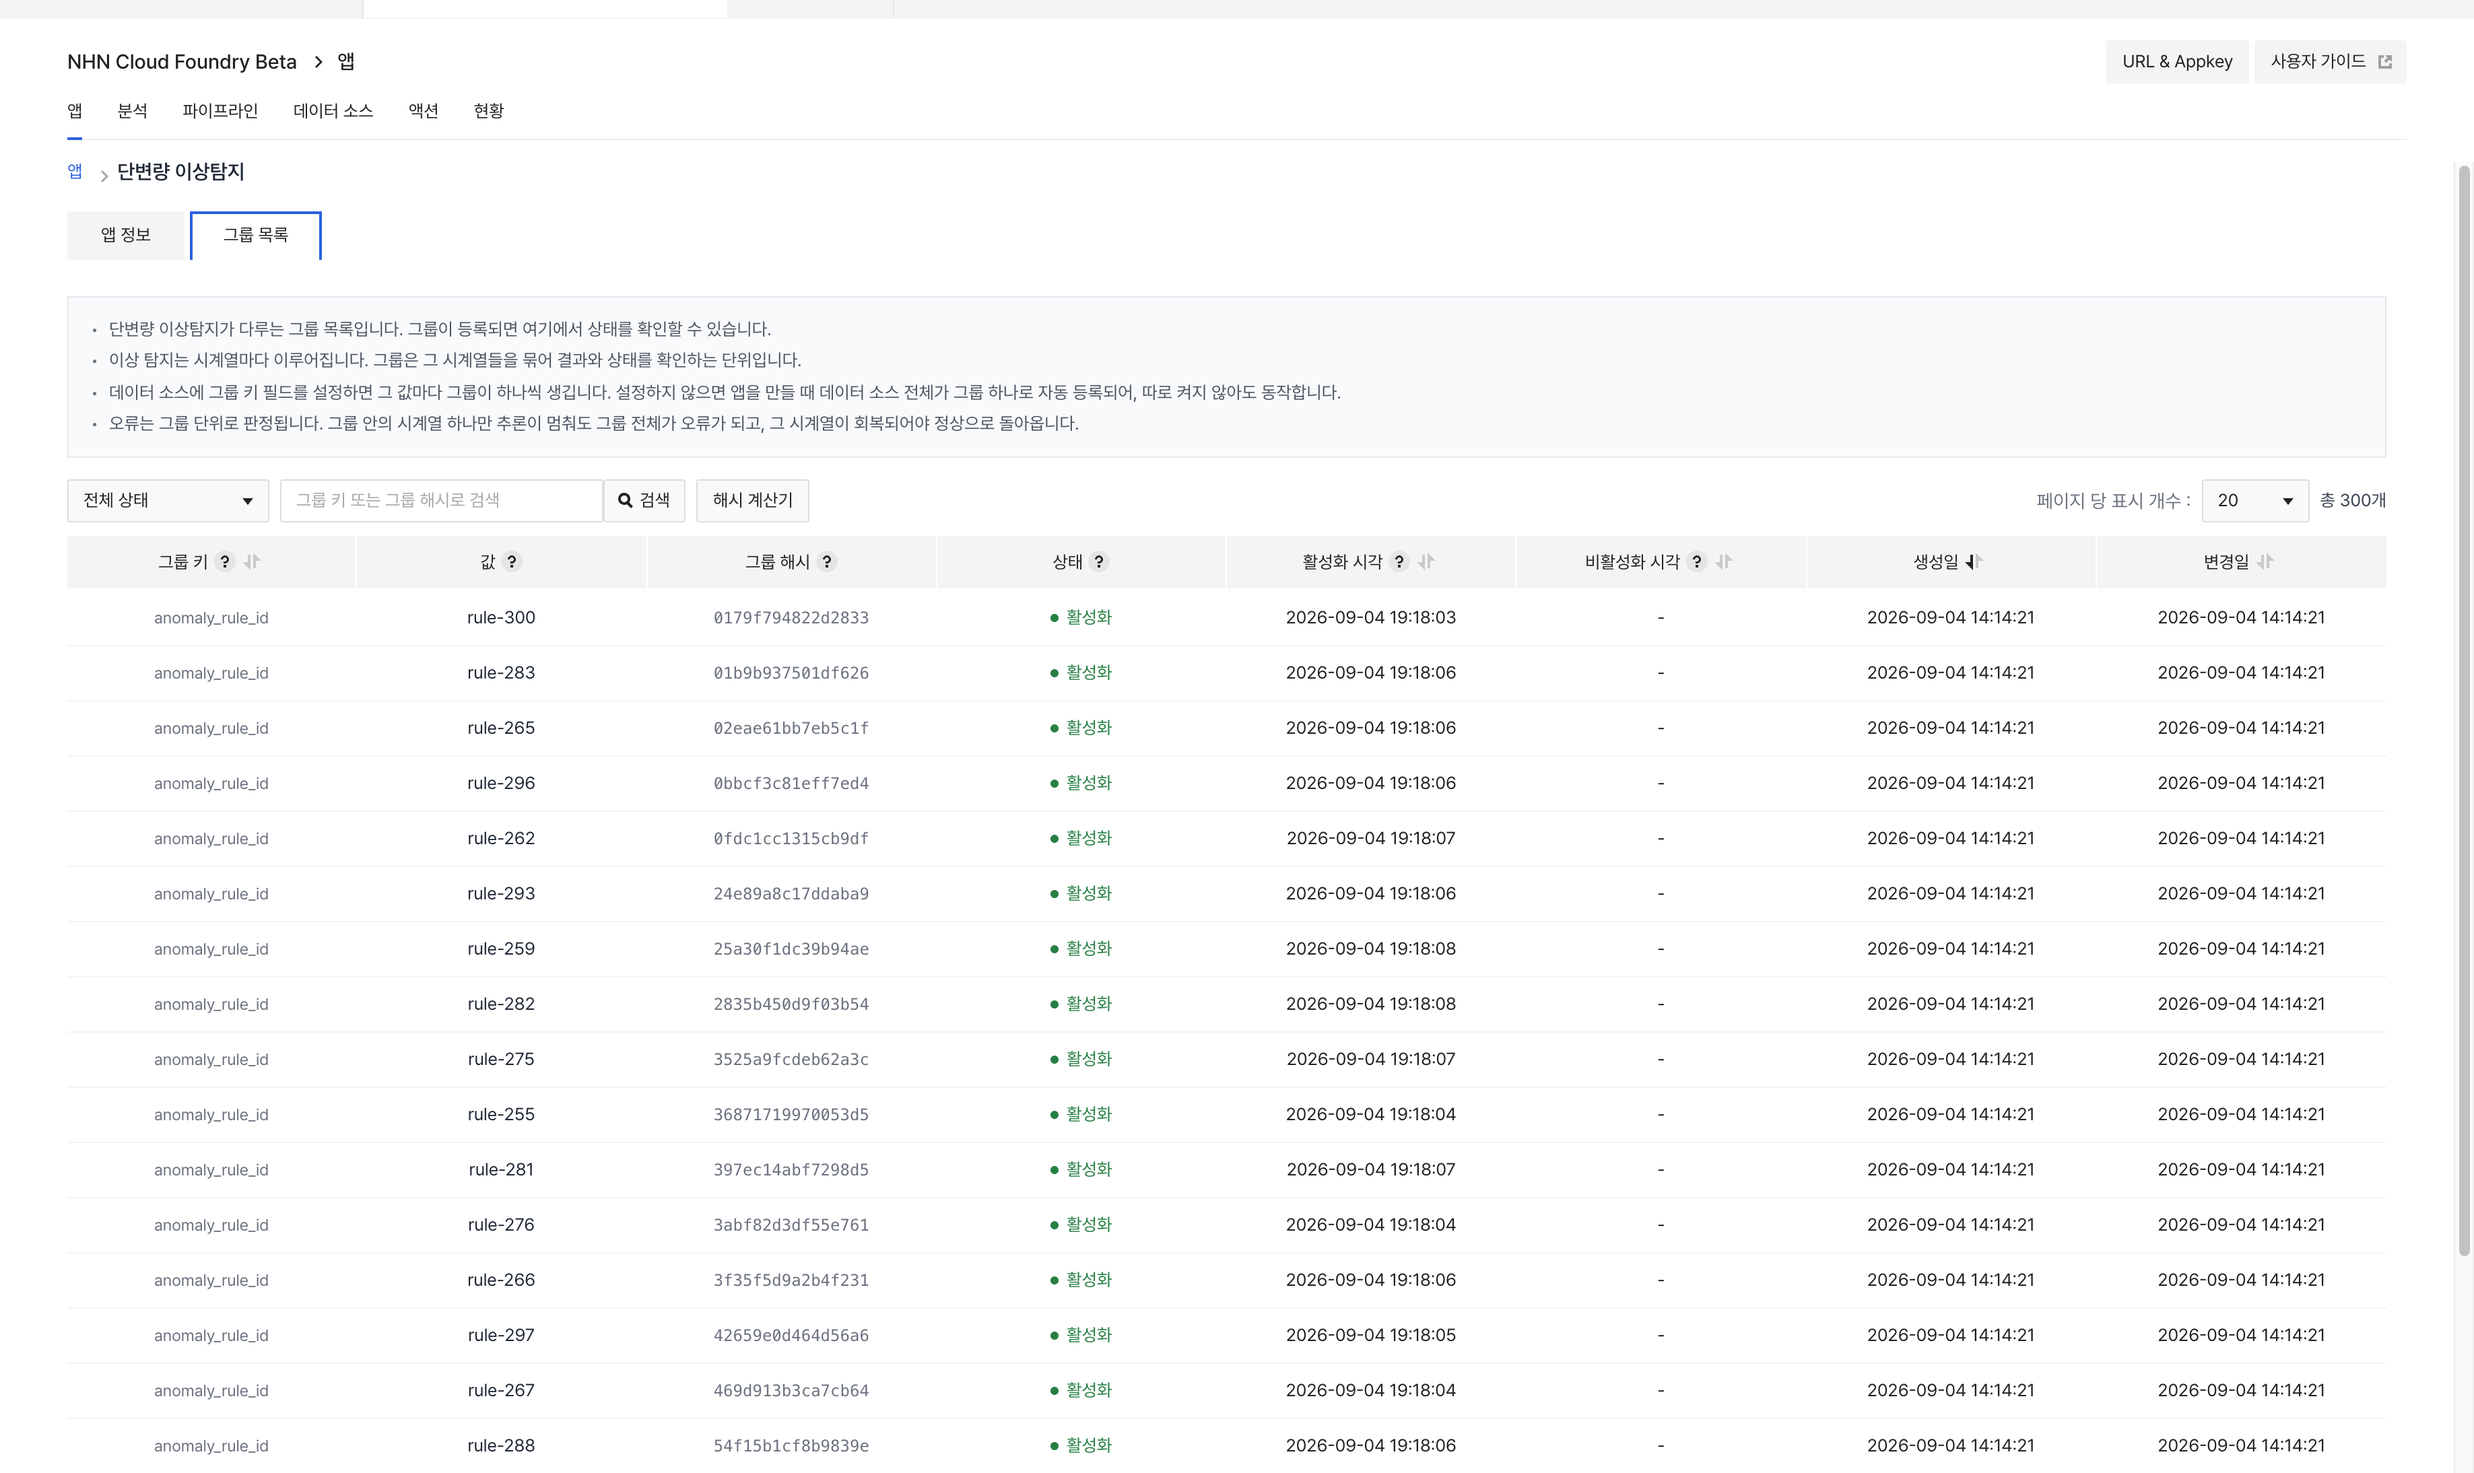
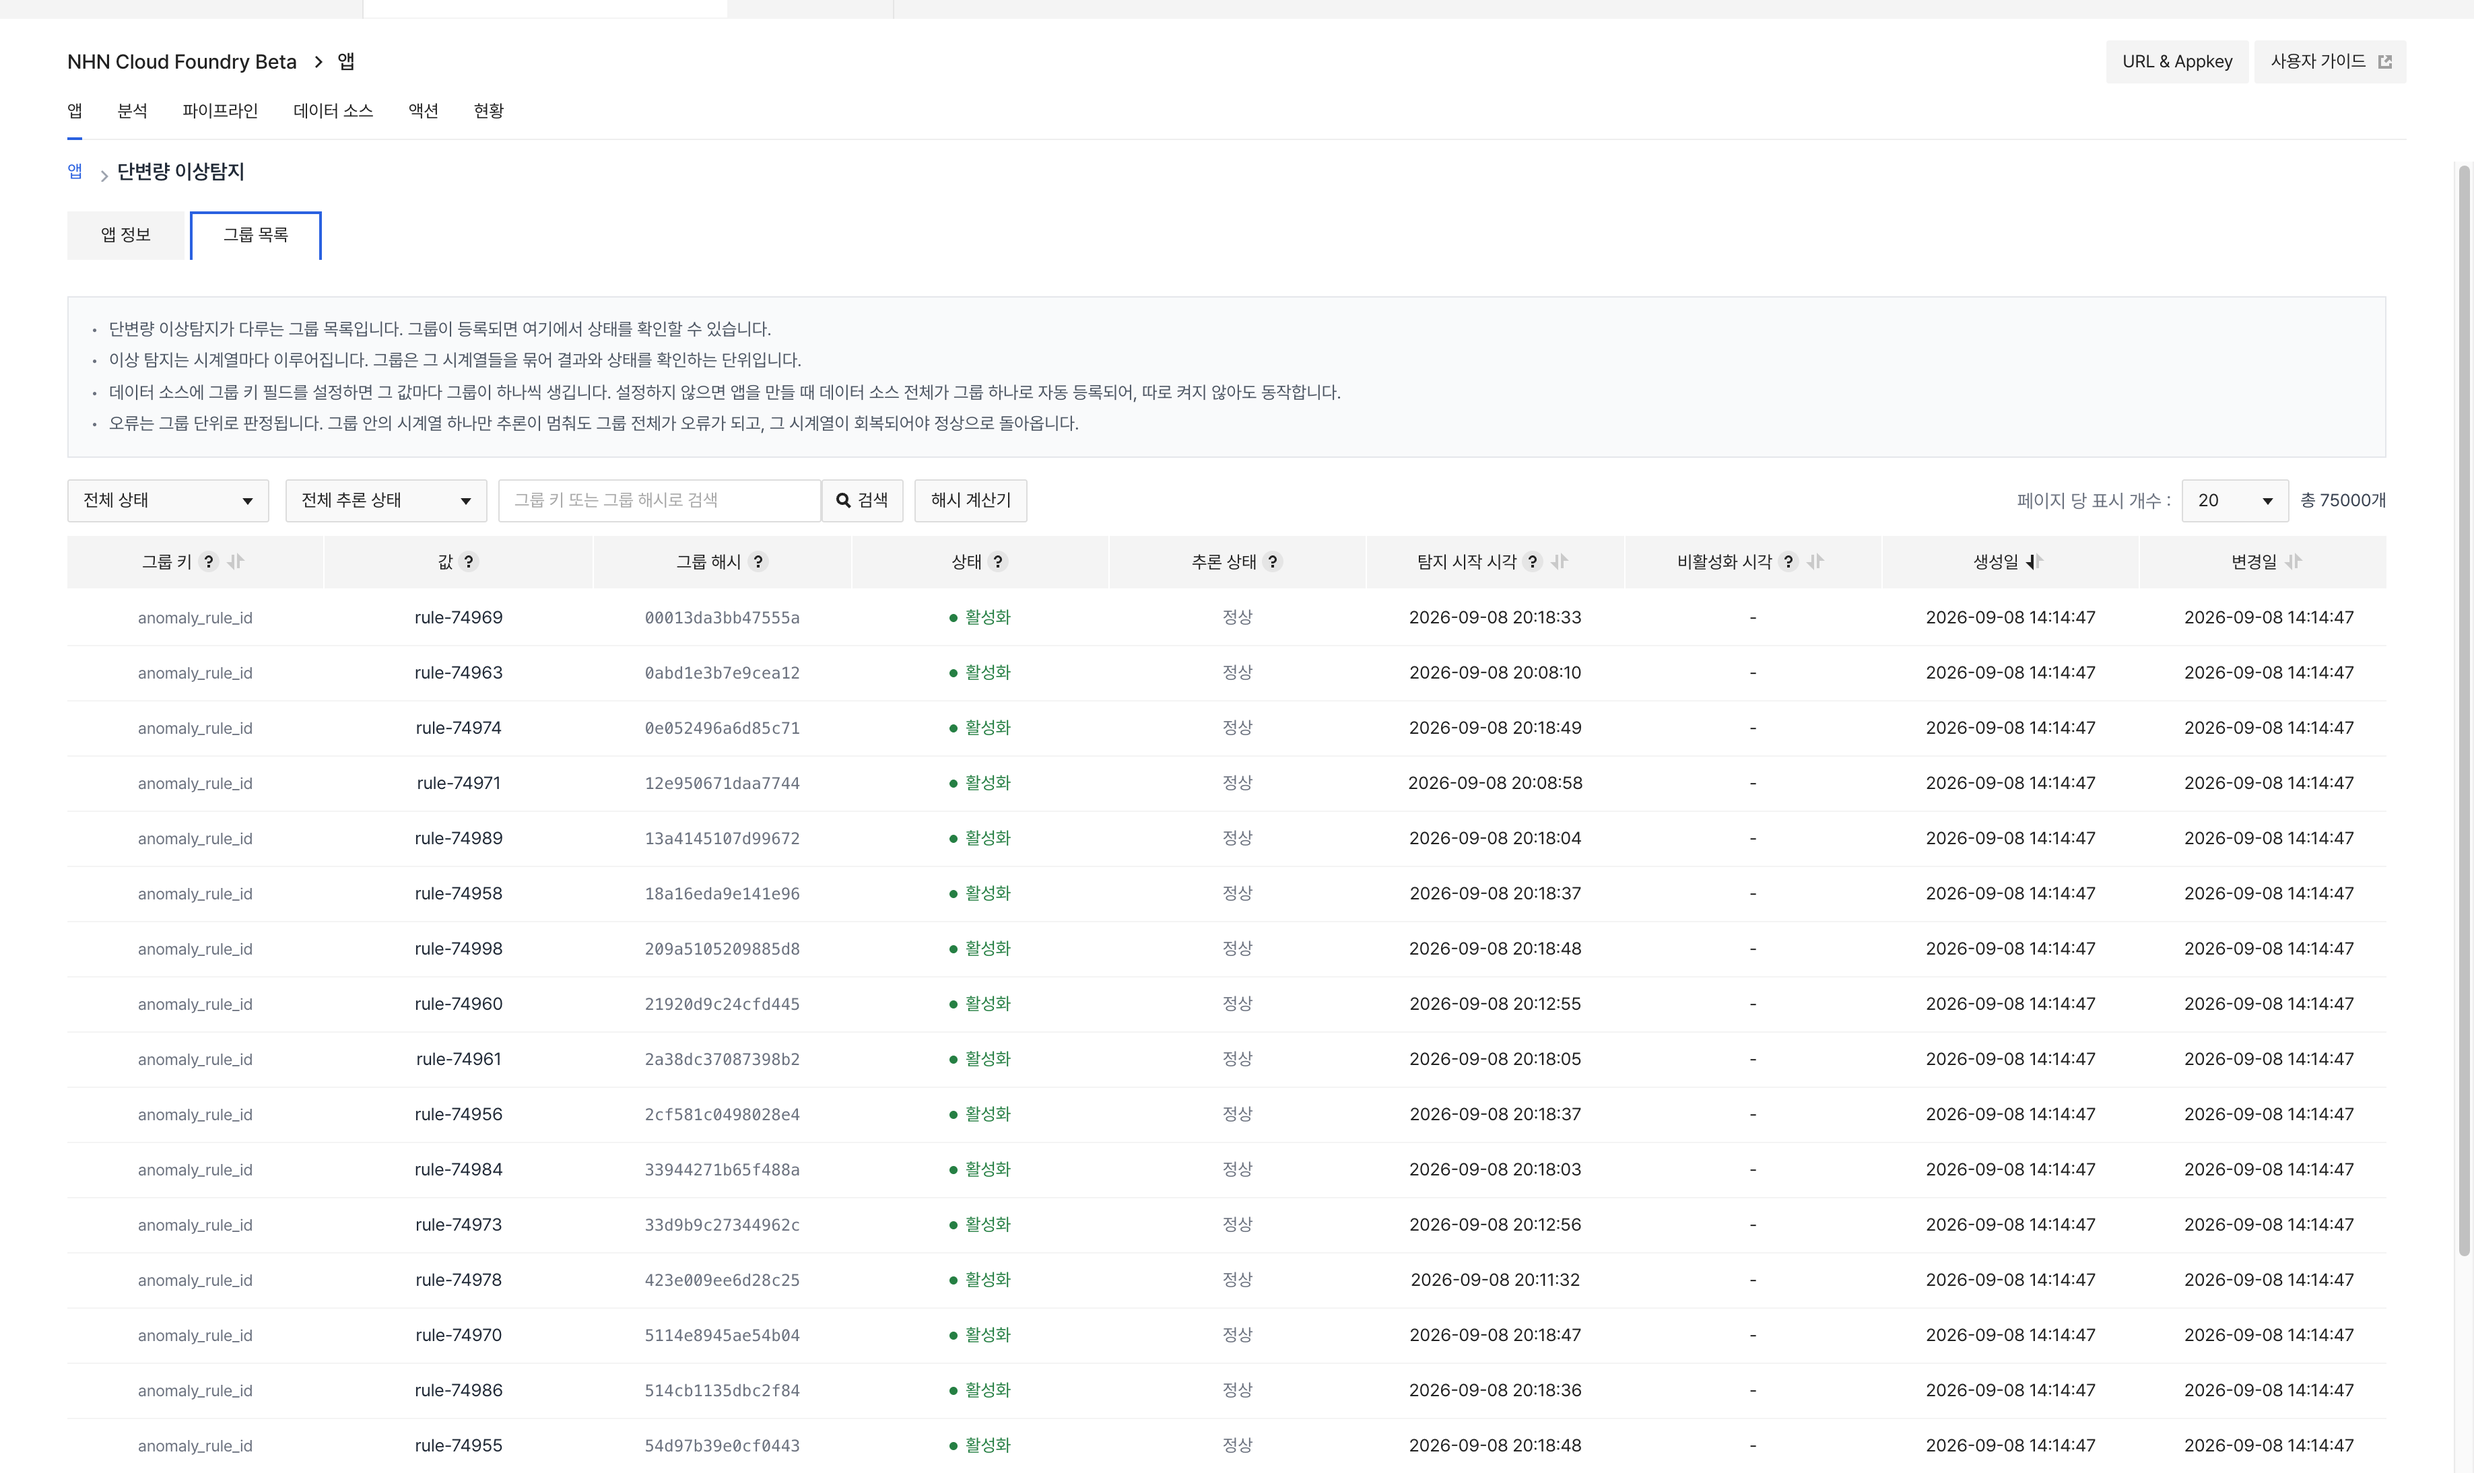
docs: 9월 8~10일 콘솔 변경 반영 — 탐지 시작 시각·추론 상태·오류 현황
- 그룹 목록 칼럼 '활성화 시각'을 콘솔 개명에 맞춰 '탐지 시작 시각'으로 변경
- 그룹 목록에 '추론 상태' 칼럼과 필터 추가 (정상·오류·판정 없음, 10분 무데이터 자동 복구 안내 포함)
- 앱 정보 그룹 현황에 '오류' 칸 추가와 다른 축이라는 설명
- 앱 생성 리소스 확인에 GPU 교체 자리 부족 시 생성 차단 안내 추가
- 쿼리 실행에 조회 결과 크기 상한 안내 추가
- 학습 관리 '확인 전'이 앱 생성 직후 자동 해소됨을 명시
- 스크린샷 3장 재캡처 (앱 유형 표기·처리 카드 제목·새 칼럼 반영, 베타 콘솔 동일 프레이밍)

diff --git a/ko/quick-start.md b/ko/quick-start.md
@@ -259,7 +259,8 @@ curl -X POST '{URL}/api/v1.0/data-sources/{DATA_SOURCE_ID}/ingest/metrics' \
 2. **그룹 목록** 탭에서 그룹 상태를 확인합니다.
     - 그룹은 지표가 들어온 뒤에 등록되므로 앱을 만든 직후에는 목록이 비어 있습니다.
     - 활성화 대기 중은 판정에 사용할 데이터를 모으는 중이고, 활성화가 되면 탐지 결과가 전송됩니다.
-    - 활성화 시각 칼럼에서 그룹이 언제부터 결과를 보내기 시작했는지 확인할 수 있습니다.
+    - 탐지 시작 시각 칼럼에서 그룹이 언제부터 결과를 보내기 시작했는지 확인할 수 있습니다.
+    - 추론 상태 칼럼에서 추론이 정상으로 돌고 있는지 확인합니다.
 
     ![그룹 목록](../static/images/quick-start/이상탐지그룹목록.png){ height="70%" }
 
